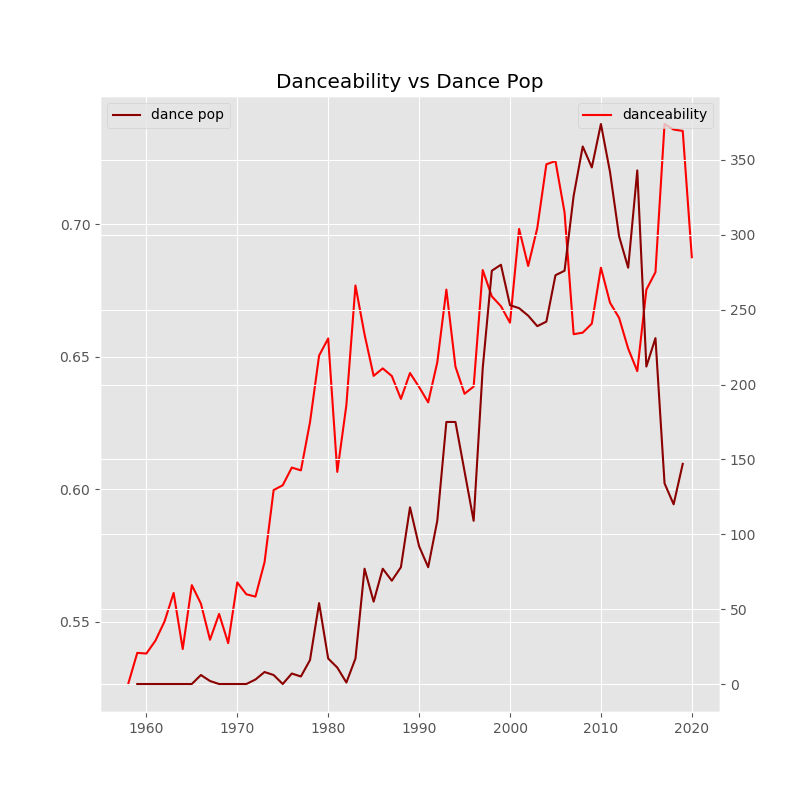
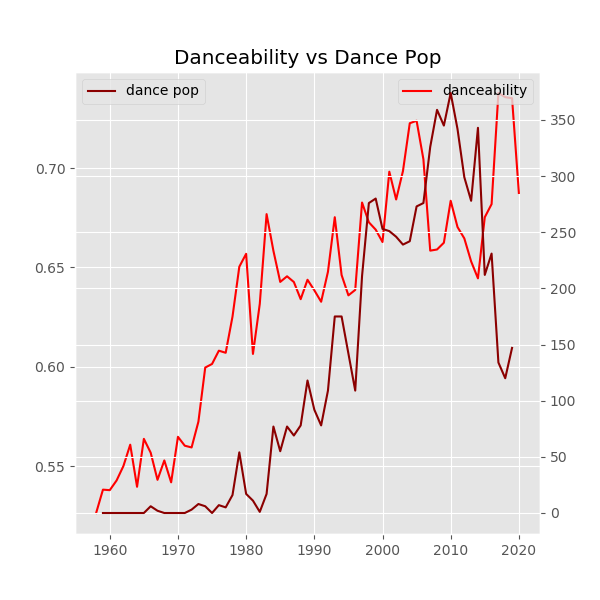
changed chart dimensions

diff --git a/src/song_analysis.py b/src/song_analysis.py
@@ -94,7 +94,7 @@ if __name__ == '__main__':
              ON s.song_id = af.uri
              '''
 
-    fig,ax = plt.subplots(1,figsize = (8,8))
+    fig,ax = plt.subplots(1,figsize = (6,6))
     dance_analysis = AudioFeatures(dance_query,conn)
     dance_analysis.add_year_column()
     dance_analysis.group()
